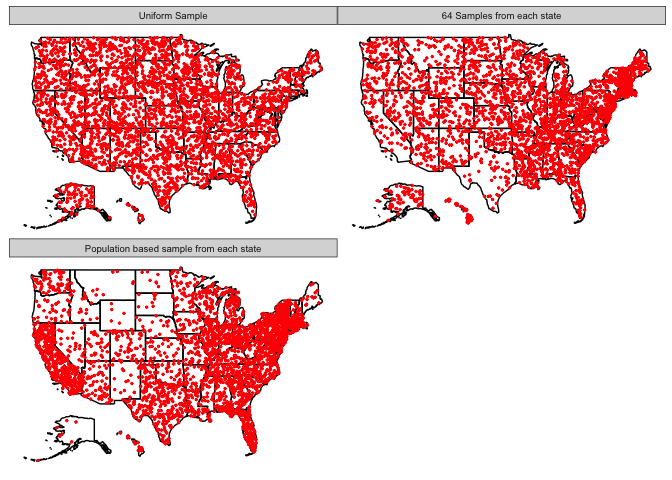
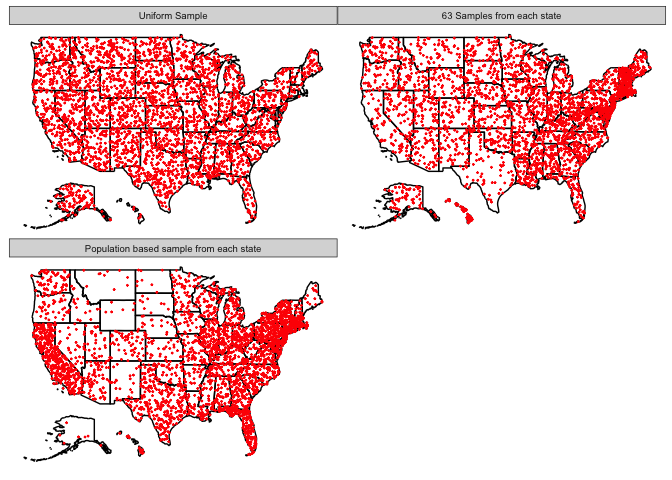
now actually facetted

diff --git a/README.md b/README.md
@@ -32,18 +32,12 @@ This map is available as data object `inset`.
 Sampling from a uniform distribution
 ====================================
 
-This is what 3200 uniformly sampled locations across the US look like:
-
-    ## Warning in left_join_impl(x, y, by$x, by$y, suffix$x, suffix$y): joining
-    ## character vector and factor, coercing into character vector
+Below are maps of the US overlaid by about 3200 points each. The points
+are placed uniformly within the geographic region. The number of points
+in each region is based on different strategies. From left to right we
+have: (top-left) a sample of locations selected uniformly across the US,
+(top-right) each state contains a set of 63 uniformly selected
+locations, (bottom-left) each dot represents about 100k residents in
+each state.
 
 ![](README_files/figure-markdown_strict/unnamed-chunk-6-1.png)
-
-This is what the geographic distribution looks like when we sample 64
-locations randomly from each state:
-![](README_files/figure-markdown_strict/unnamed-chunk-7-1.png)
-
-The map below is based state-wide population estimates published by the
-US Census Bureau for 2015. Each dot represents about 100,000 residents
-in each state:
-![](README_files/figure-markdown_strict/unnamed-chunk-8-1.png)
